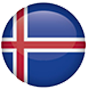
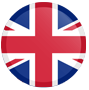
Podmiana flagi + menu RWD

diff --git a/resources/scss/style.scss b/resources/scss/style.scss
@@ -144,10 +144,54 @@ $landScapePortrait: 830px;
             top: -6px;
         }
     }
+    &-sidebar {
+        width: 50vw;
+        height: 100vh;
+        background: #03203C;
+        position: fixed;
+        top: 0;
+        left: 0vh;
+        transition: left 0.5s;
+        &-logoPart {
+            &-logo {
+                display: block;
+                width: 90%;
+                padding-top: 30px;
+                margin-left: auto;
+                margin-right: auto;
+                padding-bottom: 30px;
+            }
+        }
+        &-languagePart {
+            display: flex;
+        }
+        &-navigationPart {
+            &-nav {
+                list-style-type: none;
+                padding-left: 16px;
+                &-item {
+                    padding-top: 10px;
+                    padding-bottom: 10px;
+                    &-link {
+                        text-decoration: none;
+                        color: white;
+                        font-family: $latoRegular;
+                        text-transform: uppercase;
+                        font-size: 18px;
+                    }
+                }
+            }
+        }
+    }
+    &-sidebar.hidden {
+        left: -50vh;
+        transition: left 0.5s;
+    }
     @media (min-width: $xs) and (max-width: $lg)
     {
         display: block;
-    } 
+    }
+
 }
 
 .navbar.desktop {

diff --git a/public/assets/js/custom.js b/public/assets/js/custom.js
@@ -12,6 +12,32 @@ function logoSrcChanger(src) {
 	logo.src = src;
 }
 
+
+// Podstawowe operacji na nawigacji mobilnej
+var hamburgerElement = document.getElementById('hamburgerIcon');
+var sidebarElement = document.getElementById('navbarSidebarMobile');
+hamburgerElement.addEventListener('click', function(event) {
+	var isHidden = sidebarElement.classList.contains('hidden');
+	if (isHidden)
+	{
+		sidebarElement.classList.remove('hidden');
+	}
+	else
+	{
+		sidebarElement.classList.add('hidden');
+	}
+});
+
+var mobileItemsElements = document.getElementsByClassName('navbarMobile-sidebar-navigationPart-nav-item');
+for (var x = 0; x < mobileItemsElements.length; x++)
+{
+	mobileItemsElements[x].addEventListener('click', function(event) {
+		sidebarElement.classList.add('hidden');
+	});
+}
+
+// Koniec operacji na mobilkach
+
 var app = new Vue({
 	delimiters: ['${', '}'],
 	data: {
@@ -73,7 +99,6 @@ var app = new Vue({
 				});
 		},
 		toggleNavMobileMenu() {
-			console.log('MENU TOGGLE');
 		}
 	},
 	mounted: function() {

diff --git a/public/assets/css/style.css b/public/assets/css/style.css
@@ -117,6 +117,45 @@
   left: 6px;
   top: -6px;
 }
+.navbarMobile-sidebar {
+  width: 50vw;
+  height: 100vh;
+  background: #03203C;
+  position: fixed;
+  top: 0;
+  left: 0vh;
+  transition: left 0.5s;
+}
+.navbarMobile-sidebar-logoPart-logo {
+  display: block;
+  width: 90%;
+  padding-top: 30px;
+  margin-left: auto;
+  margin-right: auto;
+  padding-bottom: 30px;
+}
+.navbarMobile-sidebar-languagePart {
+  display: flex;
+}
+.navbarMobile-sidebar-navigationPart-nav {
+  list-style-type: none;
+  padding-left: 16px;
+}
+.navbarMobile-sidebar-navigationPart-nav-item {
+  padding-top: 10px;
+  padding-bottom: 10px;
+}
+.navbarMobile-sidebar-navigationPart-nav-item-link {
+  text-decoration: none;
+  color: white;
+  font-family: "Lato-Regular";
+  text-transform: uppercase;
+  font-size: 18px;
+}
+.navbarMobile-sidebar.hidden {
+  left: -50vh;
+  transition: left 0.5s;
+}
 @media (min-width: 320px) and (max-width: 1200px) {
   .navbarMobile {
     display: block;

diff --git a/resources/views/website/parts/nav.blade.php b/resources/views/website/parts/nav.blade.php
@@ -36,9 +36,45 @@
 <!-- MOBILE NAVBAR -->
 <div class="navbarMobile" id="mobileNav">
     <div class="navbarMobile-bar">
-        <img src="{{ asset('assets/images/main/hamburger-icon.png') }}" @click="toggleNavMobileMenu()" />
+        <div class="navbarMobile-bar-hamburgerContainer">
+            <img src="{{ asset('assets/images/main/hamburger-icon.png') }}" id="hamburgerIcon" />
+        </div>
     </div>
-    <div class="navbarMobile-sidebar">
+    <div class="navbarMobile-sidebar hidden" id="navbarSidebarMobile">
+        <div class="navbarMobile-sidebar-logoPart">
+            <img src="{{ asset('assets/images/main/domixowe-logo.png') }}" class="navbarMobile-sidebar-logoPart-logo" alt="domixowe.dev - Twój developer IT">
+        </div>
+        <div class="navbarMobile-sidebar-languagePart">
+            <div class="navbarMobile-sidebar-languagePart-lang">
+                <a href="http://10.0.0.10/language-set/PL">
+                    <img src="{{ asset('assets/images/flags/pl.png') }}" class="site-langIcon">
+                </a>
+            </div>
+            <div class="navbarMobile-sidebar-languagePart-lang">
+                <a href="http://10.0.0.10/language-set/EN">
+                    <img src="{{ asset('assets/images/flags/en.png') }}" class="site-langIcon">
+                </a>
+            </div>
+        </div>
+        <div class="navbarMobile-sidebar-navigationPart">
+            <ul class="navbarMobile-sidebar-navigationPart-nav">
+                <li data-menuanchor="start" class="navbarMobile-sidebar-navigationPart-nav-item">
+                    <a href="#start" class="navbarMobile-sidebar-navigationPart-nav-item-link">'START'</a>
+                </li>
+                <li data-menuanchor="about" class="navbarMobile-sidebar-navigationPart-nav-item">
+                    <a href="#about" class="navbarMobile-sidebar-navigationPart-nav-item-link">'{{ translate('landingpage.nav.about') }}'</a>
+                </li>
+                <li data-menuanchor="workshop" class="navbarMobile-sidebar-navigationPart-nav-item">
+                    <a href="#workshop"class="navbarMobile-sidebar-navigationPart-nav-item-link">'{{ translate('landingpage.nav.workshop') }}'</a>
+                </li>
+                <li data-menuanchor="experience" class="navbarMobile-sidebar-navigationPart-nav-item">
+                    <a href="#experience"class="navbarMobile-sidebar-navigationPart-nav-item-link">'{{ translate('landingpage.nav.experience') }}'</a>
+                </li>
+                <li data-menuanchor="contact" class="navbarMobile-sidebar-navigationPart-nav-item">
+                    <a href="#contact" class="navbarMobile-sidebar-navigationPart-nav-item-link">'{{ translate('landingpage.nav.contact') }}'</a>
+                </li>
+            </ul>
+        </div>
     </div>
 </div>
 <!-- / MOBILE NAVBAR -->
